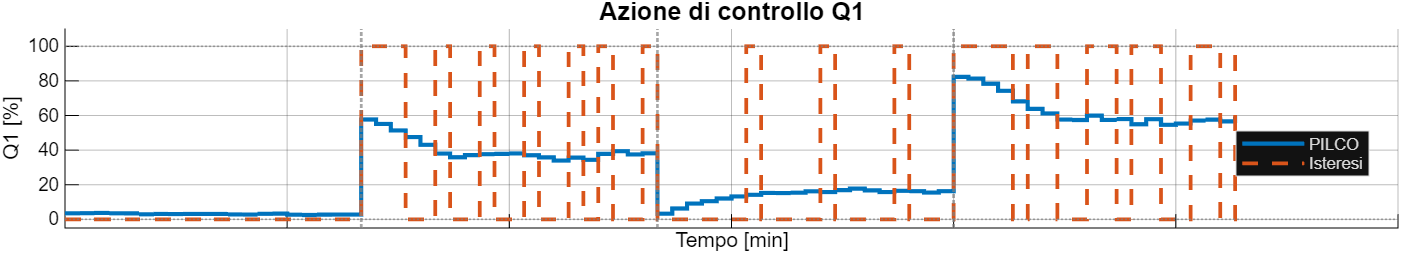
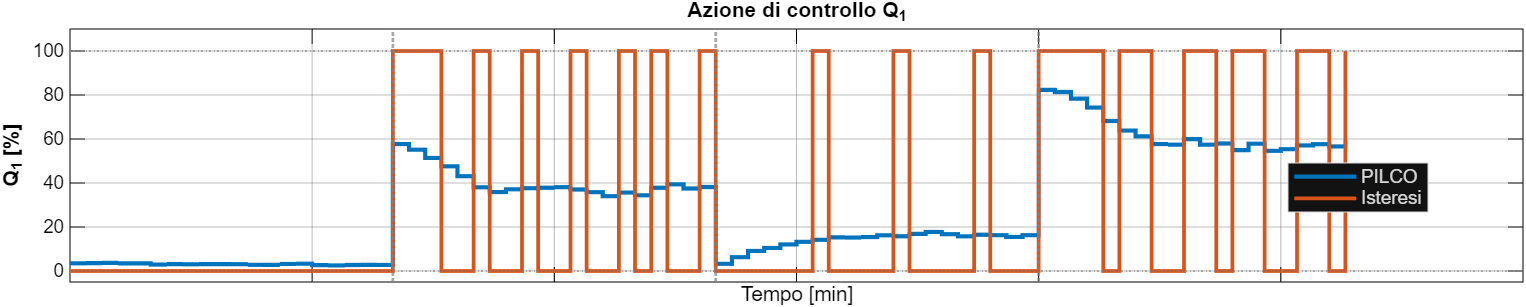
Update hysteresis comparison script and regenerate figures

Changed region(s): [[0.0, 0.1383, 1.0, 0.996], [0.0307, 0.0, 1.0, 0.1107]]

diff --git a/pilco_vs_isteresi/compare_hysteresis_pilco.m b/pilco_vs_isteresi/compare_hysteresis_pilco.m
@@ -221,18 +221,24 @@ fprintf('\n=== Generazione figura di confronto ===\n');
 c_pilco = [0.00, 0.45, 0.74];   % blu
 c_hyst  = [0.85, 0.33, 0.10];   % arancione
 c_ref   = [0.85, 0.13, 0.13];   % rosso
-c_band  = [0.80, 0.80, 0.80];   % grigio chiaro
+c_band  = [0.80, 0.90, 0.80];   % verde chiaro (banda ±2°C)
 c_xline = [0.50, 0.50, 0.50];   % grigio
 
 t_min = t_eval / 60;                           % [min]
+
+% Metriche per annotazione nel grafico
+rmse_P_val = sqrt(mean(err_pilco(2:end).^2));
+rmse_H_val = sqrt(mean(err_hyst(2:end).^2));
+pct_P_val  = 100 * mean(abs(err_pilco(2:end)) < 2);
+pct_H_val  = 100 * mean(abs(err_hyst(2:end)) < 2);
 
 % R8: NumberTitle off, Name descrittivo
 fig = figure('NumberTitle', 'off', 'Name', 'Confronto PILCO vs Isteresi — Caso 3', ...
              'Color', 'w');
 clf(fig);
-% R10: Position
-set(fig, 'Position', [80, 50, 1100, 850]);
-set(fig, 'InvertHardcopy', 'off');  % non invertire: i colori sono già espliciti
+% R10: Position — più alta per 4 subplot leggibili
+set(fig, 'Position', [60, 20, 1200, 1050]);
+set(fig, 'InvertHardcopy', 'off');
 
 % ---- SP1: Temperatura T1 [°C] ----
 ax1 = subplot(4, 1, 1); hold on;
@@ -246,16 +252,16 @@ patch(ax1, t_patch, band_patch, c_band, ...
       'DisplayName', '±2°C');
 
 % Riferimento
-plot(ax1, t_min, ref_vec, '-', 'Color', c_ref, 'LineWidth', 1.2, ...
+stairs(ax1, t_min, ref_vec, '-', 'Color', c_ref, 'LineWidth', 1.5, ...
      'DisplayName', 'Riferimento');
 
 % T1 PILCO
 plot(ax1, t_min, T1_pilco, '-', 'Color', c_pilco, 'LineWidth', 2.5, ...
-     'DisplayName', 'PILCO');
+     'DisplayName', sprintf('PILCO (RMSE=%.2f°C, %d%%)', rmse_P_val, round(pct_P_val)));
 
 % T1 Isteresi
 plot(ax1, t_min, T1_hyst, '--', 'Color', c_hyst, 'LineWidth', 2.0, ...
-     'DisplayName', 'Isteresi');
+     'DisplayName', sprintf('Isteresi (RMSE=%.2f°C, %d%%)', rmse_H_val, round(pct_H_val)));
 
 % R4: xline ai cambi di setpoint
 for ss = 2:nSteps
@@ -263,11 +269,12 @@ for ss = 2:nSteps
           'LineWidth', 1.3, 'HandleVisibility', 'off');
 end
 
-ylabel(ax1, 'T1 [°C]');
-legend(ax1, 'Location', 'best', 'FontSize', 8);
+ylabel(ax1, 'T_1 [°C]', 'FontSize', 11, 'FontWeight', 'bold');
+legend(ax1, 'Location', 'best', 'FontSize', 9);
 grid(ax1, 'on');
-title(ax1, 'Temperatura T1 nel tempo');
-xlabel(ax1, 'Tempo [min]');
+title(ax1, 'Temperatura T_1 nel tempo', ...
+      'FontSize', 13, 'FontWeight', 'bold', 'Color', 'k');
+xlabel(ax1, 'Tempo [min]', 'FontSize', 10);
 
 % ---- SP2: Q1 controllo [%] ----
 ax2 = subplot(4, 1, 2); hold on;
@@ -277,7 +284,7 @@ stairs(ax2, t_min(1:H_eval), Q1_perc_pilco, '-', 'Color', c_pilco, ...
        'LineWidth', 2.0, 'DisplayName', 'PILCO');
 
 % Q1 Isteresi
-stairs(ax2, t_min(1:H_eval), Q1_perc_hyst, '--', 'Color', c_hyst, ...
+stairs(ax2, t_min(1:H_eval), Q1_perc_hyst, '-', 'Color', c_hyst, ...
        'LineWidth', 1.8, 'DisplayName', 'Isteresi');
 
 % yline 0% e 100%
@@ -292,12 +299,13 @@ for ss = 2:nSteps
           'LineWidth', 1.3, 'HandleVisibility', 'off');
 end
 
-ylabel(ax2, 'Q1 [%]');
+ylabel(ax2, 'Q_1 [%]', 'FontSize', 11, 'FontWeight', 'bold');
 ylim(ax2, [-5, 110]);
-legend(ax2, 'Location', 'best', 'FontSize', 8);
+legend(ax2, 'Location', 'best', 'FontSize', 9);
 grid(ax2, 'on');
-title(ax2, 'Azione di controllo Q1');
-xlabel(ax2, 'Tempo [min]');
+title(ax2, 'Azione di controllo Q_1', ...
+      'FontSize', 13, 'FontWeight', 'bold', 'Color', 'k');
+xlabel(ax2, 'Tempo [min]', 'FontSize', 10);
 
 % ---- SP3: Errore di tracking e(t) [°C] ----
 ax3 = subplot(4, 1, 3); hold on;
@@ -307,14 +315,14 @@ plot(ax3, t_min, err_pilco, '-', 'Color', c_pilco, 'LineWidth', 2.0, ...
      'DisplayName', 'PILCO');
 
 % e Isteresi
-plot(ax3, t_min, err_hyst, '--', 'Color', c_hyst, 'LineWidth', 1.8, ...
+plot(ax3, t_min, err_hyst, '-', 'Color', c_hyst, 'LineWidth', 1.8, ...
      'DisplayName', 'Isteresi');
 
 % yline 0, ±2°C
 yline(ax3, 0,  '-k', 'LineWidth', 1.0, 'HandleVisibility', 'off');
-yline(ax3, 2,  '--', 'Color', [0.0, 0.6, 0.1], 'LineWidth', 1.0, ...
+yline(ax3, 2,  '--', 'Color', [0.0, 0.6, 0.1], 'LineWidth', 1.2, ...
       'DisplayName', '±2°C');
-yline(ax3, -2, '--', 'Color', [0.0, 0.6, 0.1], 'LineWidth', 1.0, ...
+yline(ax3, -2, '--', 'Color', [0.0, 0.6, 0.1], 'LineWidth', 1.2, ...
       'HandleVisibility', 'off');
 
 % xline ai cambi di setpoint
@@ -323,18 +331,19 @@ for ss = 2:nSteps
           'LineWidth', 1.3, 'HandleVisibility', 'off');
 end
 
-ylabel(ax3, 'Errore [°C]');
-legend(ax3, 'Location', 'best', 'FontSize', 8);
+ylabel(ax3, 'Errore [°C]', 'FontSize', 11, 'FontWeight', 'bold');
+legend(ax3, 'Location', 'best', 'FontSize', 9);
 grid(ax3, 'on');
-title(ax3, 'Errore di tracking e(t) = T1 − r(t)');
-xlabel(ax3, 'Tempo [min]');
+title(ax3, 'Errore di tracking  e(t) = T_1 − r(t)', ...
+      'FontSize', 13, 'FontWeight', 'bold', 'Color', 'k');
+xlabel(ax3, 'Tempo [min]', 'FontSize', 10);
 
 % ---- SP4: Costo lossSat cumulativo normalizzato [0,1] ----
 ax4 = subplot(4, 1, 4); hold on;
 
 % Costo PILCO con movmean
 plot(ax4, t_min(1:H_eval), cost_pilco, '-', ...
-     'Color', [c_pilco, 0.3], 'LineWidth', 0.8, ...
+     'Color', [c_pilco, 0.25], 'LineWidth', 0.8, ...
      'HandleVisibility', 'off');
 if H_eval >= 10
     plot(ax4, t_min(1:H_eval), movmean(cost_pilco, 10), '-', ...
@@ -343,11 +352,11 @@ if H_eval >= 10
 end
 
 % Costo Isteresi con movmean
-plot(ax4, t_min(1:H_eval), cost_hyst, '--', ...
-     'Color', [c_hyst, 0.3], 'LineWidth', 0.8, ...
+plot(ax4, t_min(1:H_eval), cost_hyst, '-', ...
+     'Color', [c_hyst, 0.25], 'LineWidth', 0.8, ...
      'HandleVisibility', 'off');
 if H_eval >= 10
-    plot(ax4, t_min(1:H_eval), movmean(cost_hyst, 10), '--', ...
+    plot(ax4, t_min(1:H_eval), movmean(cost_hyst, 10), '-', ...
          'Color', c_hyst, 'LineWidth', 2.2, ...
          'DisplayName', 'Isteresi movmean(10)');
 end
@@ -358,12 +367,13 @@ for ss = 2:nSteps
           'LineWidth', 1.3, 'HandleVisibility', 'off');
 end
 
-xlabel(ax4, 'Tempo [min]');
-ylabel(ax4, 'Costo lossSat [0,1]');
+xlabel(ax4, 'Tempo [min]', 'FontSize', 11, 'FontWeight', 'bold');
+ylabel(ax4, 'Costo lossSat [0,1]', 'FontSize', 11, 'FontWeight', 'bold');
 ylim(ax4, [0, 1.05]);
-legend(ax4, 'Location', 'best', 'FontSize', 8);
+legend(ax4, 'Location', 'best', 'FontSize', 9);
 grid(ax4, 'on');
-title(ax4, 'Costo lossSat (movmean 10)');
+title(ax4, 'Costo lossSat (media mobile 10)', ...
+      'FontSize', 13, 'FontWeight', 'bold', 'Color', 'k');
 
 % R1: linkaxes
 linkaxes([ax1, ax2, ax3, ax4], 'x');
@@ -373,25 +383,22 @@ set(ax1, 'XTickLabel', []);
 set(ax2, 'XTickLabel', []);
 set(ax3, 'XTickLabel', []);
 
-% R3: sgtitle
+% R3: sgtitle prominente
 Tset_str = strjoin(arrayfun(@(x) sprintf('%.0f', x), Tset_seq, ...
-           'UniformOutput', false), '→');
-sgtitle(sprintf('Confronto PILCO vs Isteresi — T_{set} = [%s]°C | T_{amb} = %.0f°C | dt = %ds', ...
-        Tset_str, Tamb, dt), ...
-        'FontWeight', 'bold', 'FontSize', 13);
+           'UniformOutput', false), ', ');
+sgtitle(sprintf('Confronto PILCO vs Isteresi — T_{set} = [%s] °C  |  T_{amb} = %.0f°C', ...
+        Tset_str, Tamb), ...
+        'FontWeight', 'bold', 'FontSize', 14, 'Color', 'k');
 
 % =========================================================================
 % Stile leggibile: sfondo bianco, contorno nero, titoli marcati
 % =========================================================================
 for aa = [ax1, ax2, ax3, ax4]
-    set(aa, 'Color', 'w');                          % sfondo bianco
-    set(aa, 'XColor', 'k');                          % asse X nero
-    set(aa, 'YColor', 'k');                          % asse Y nero
-    set(aa, 'GridColor', [0.15 0.15 0.15]);
-    set(aa, 'GridAlpha', 0.3);
-    set(get(aa, 'Title'), 'Color', 'k', 'FontWeight', 'bold', 'FontSize', 12);
-    set(get(aa, 'XLabel'), 'Color', 'k', 'FontSize', 10);
-    set(get(aa, 'YLabel'), 'Color', 'k', 'FontSize', 10);
+    set(aa, 'Color', 'w');
+    set(aa, 'XColor', 'k', 'YColor', 'k');
+    set(aa, 'GridColor', [0.15 0.15 0.15], 'GridAlpha', 0.3);
+    set(aa, 'FontSize', 9);
+    box(aa, 'on');
 end
 
 % Legende con sfondo bianco e testo nero
